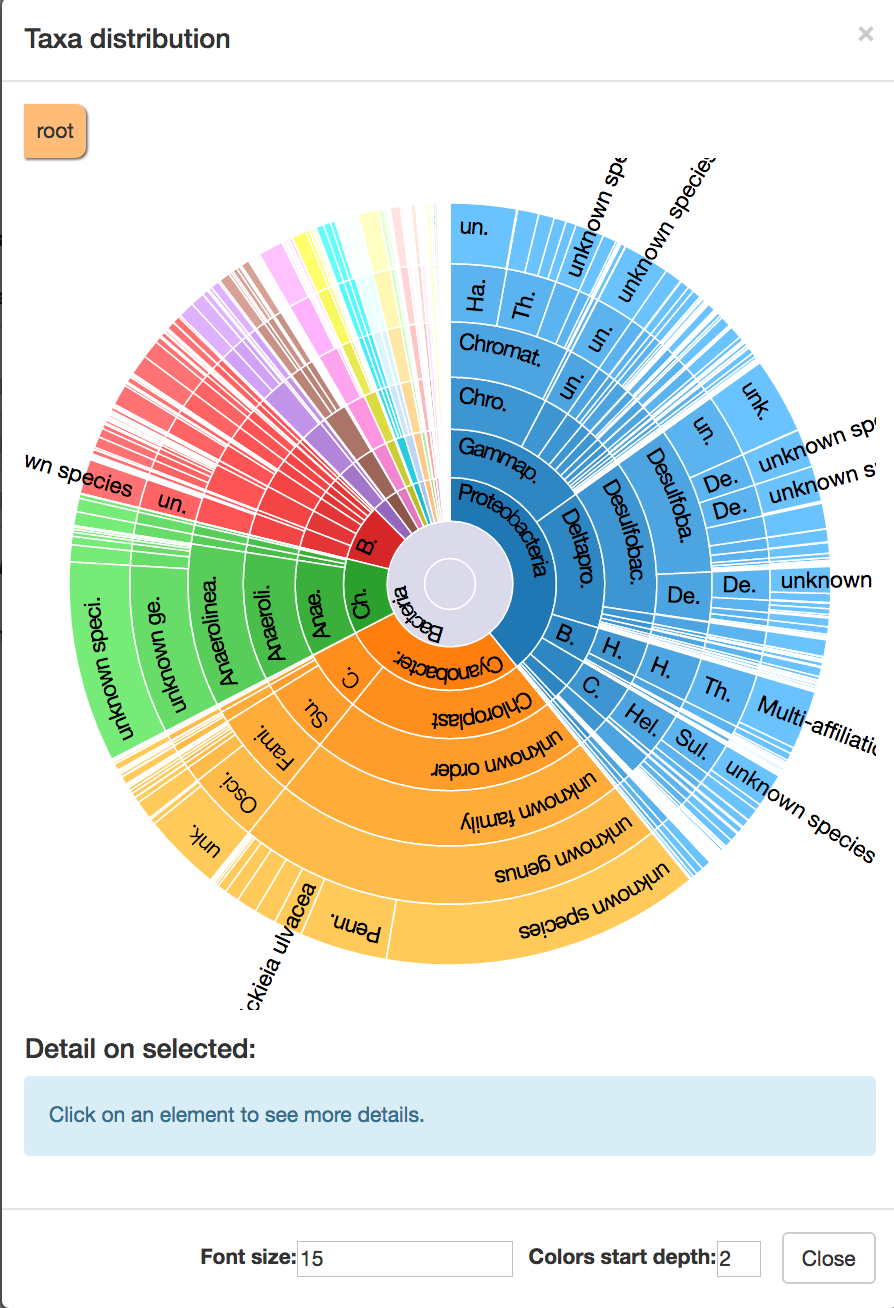
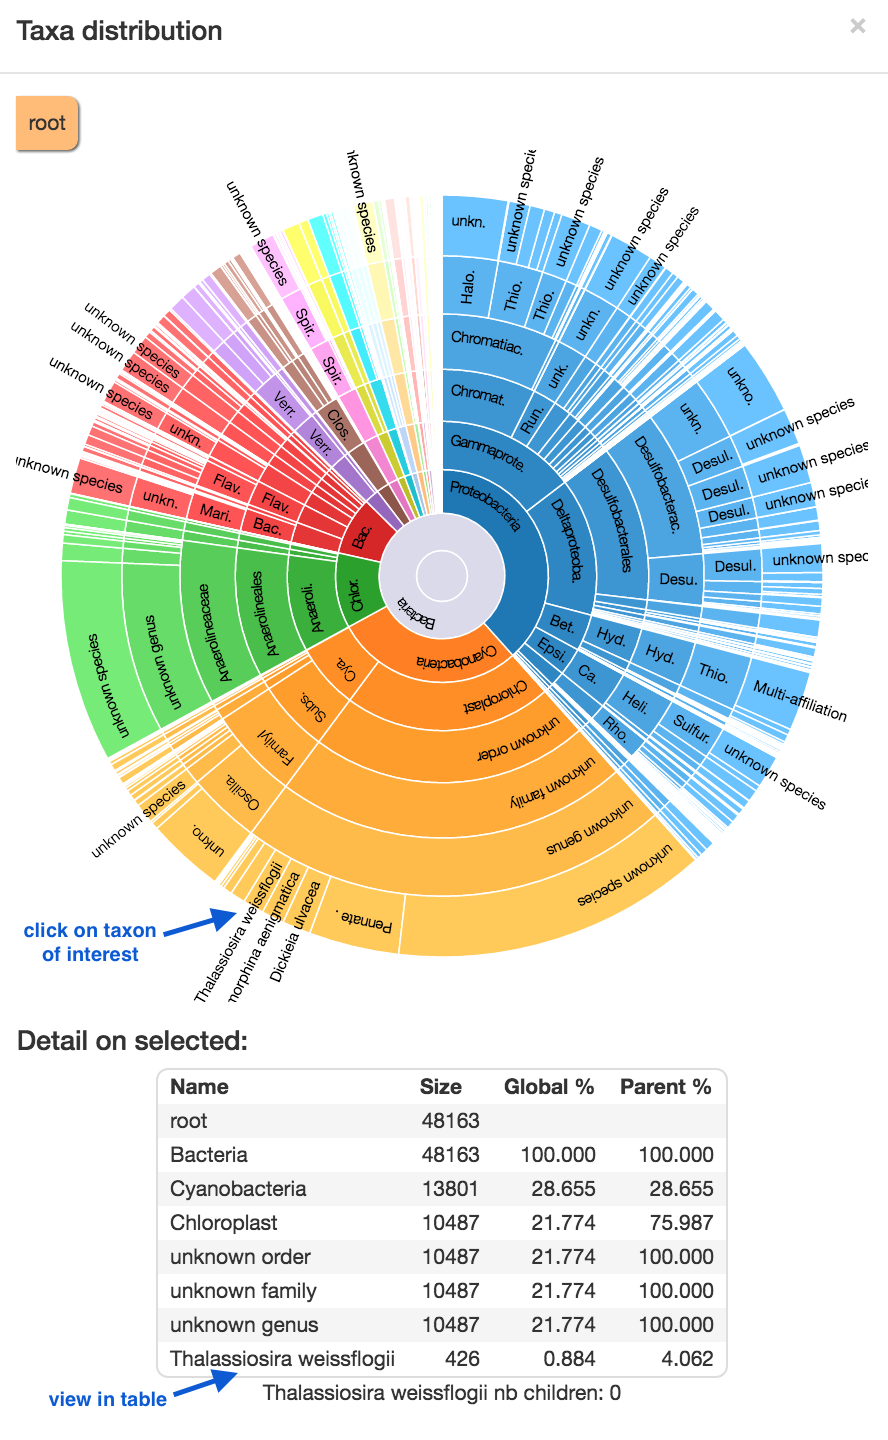
updated taxa distribution image in frogs

diff --git a/docs/modules/frogs/index.md b/docs/modules/frogs/index.md
@@ -238,9 +238,11 @@ Go to <ss>FROGS Affiliations stat</ss> and select:
 
 There is one output file. Click on the eye icon next to <fn>summary.html</fn>:
 
-- click on <ss>Display global distribution</ss>: this shows the taxonomy of the sample. Start at the centre; major groups each have a segment by colour; as you go outwards, taxonomic identification becomes more specific. <!-- this is the pooled info from both samples? --> Click on the cross in the top right corner to exit.
+- click on <ss>Display global distribution</ss>: this shows the taxonomy of the sample. Start at the centre; major groups each have a segment by colour; as you go outwards, taxonomic identification becomes more specific. <!-- this is the pooled info from both samples? --> Click on a segment to display a table of statisics below. Click on the cross in the top right corner to exit.
 
 ![taxa-distribution](images/taxa_distribution.png)
+
+<!--is there a way to summarize this info across samples? eg sample 1 had lots of taxon A compared to sample 2 etc... or this taxon found only in sample B etc... (although I think these ones were filtered out)? -->
 
 - Next, we will look at the rarefaction curve, which is a measure of samples vs diversity. <!-- is that correct? In other words, how many samples do we have to take before we are covering the taxonomic diversity?--> Click on the boxes next to each of the samples (both, or one at a time) in the table (microbiomeA and microbiomeB). Click <ss>Display rarefaction</ss>.
 
